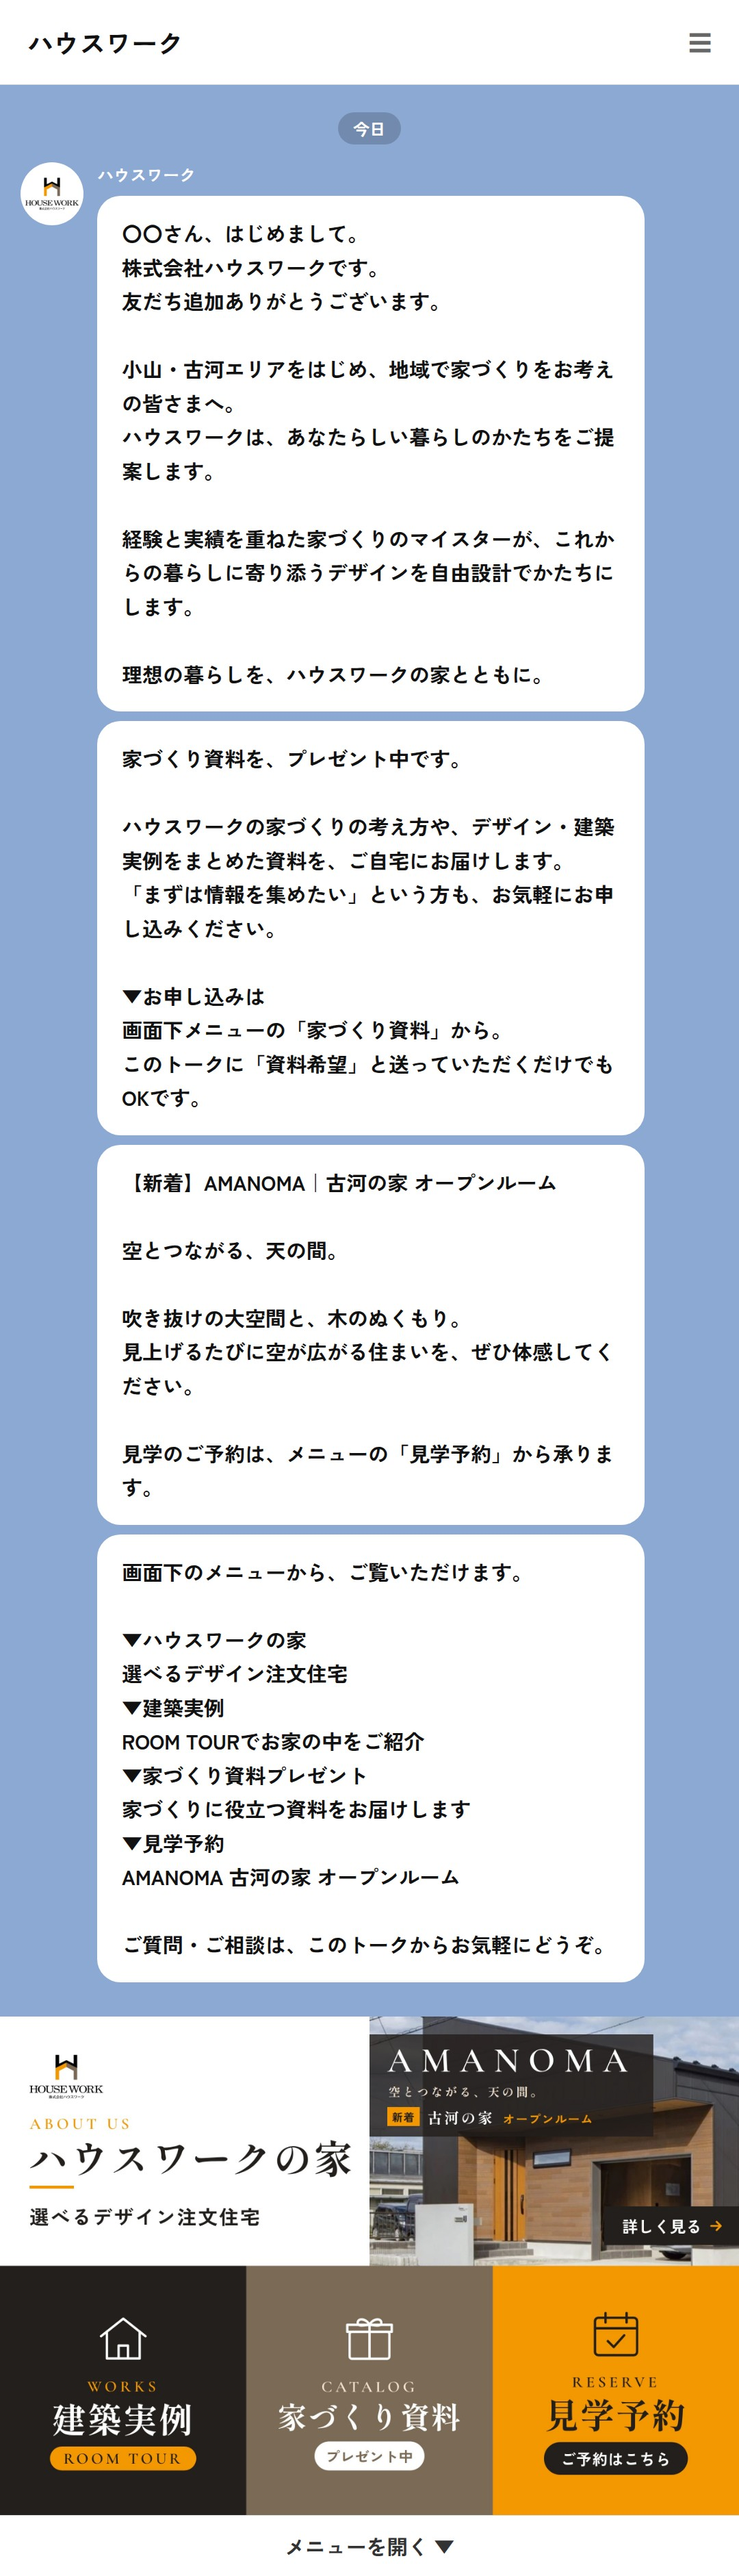
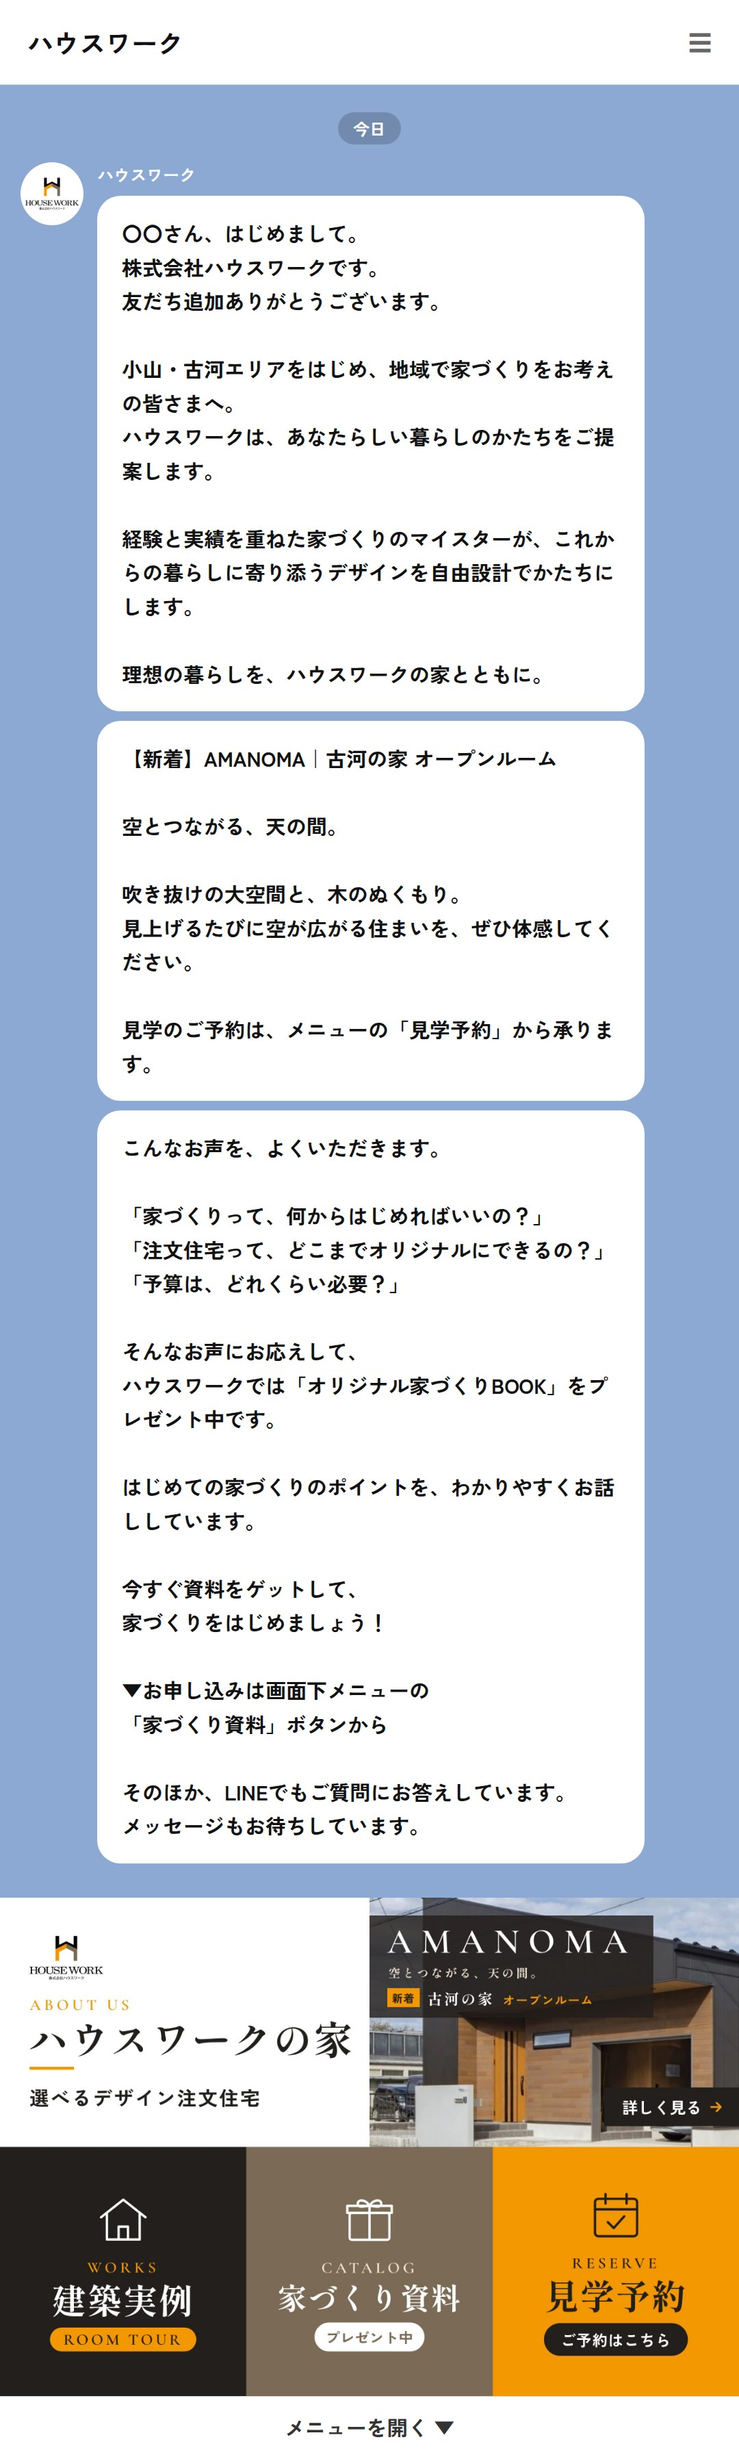
Greeting closes with家づくりBOOK catalog CTA built from customer questions
Claude-Session: https://claude.ai/code/session_012B9C5ZEN3wmcNpkXGGwKaW

Changed region(s): [[0.0, 0.0312, 1.0, 0.9986], [0.9167, 0.0, 0.9778, 0.0312], [0.2139, 0.0, 0.2444, 0.0312]]

diff --git a/line-greeting/greeting.html b/line-greeting/greeting.html
@@ -45,14 +45,6 @@
 経験と実績を重ねた家づくりのマイスターが、これからの暮らしに寄り添うデザインを<b>自由設計</b>でかたちにします。
 
 <span class="catch">理想の暮らしを、ハウスワークの家とともに。</span></div>
-        <div class="bubble">家づくり資料を、プレゼント中です。
-
-ハウスワークの家づくりの考え方や、デザイン・建築実例をまとめた資料を、ご自宅にお届けします。
-「まずは情報を集めたい」という方も、お気軽にお申し込みください。
-
-▼お申し込みは
-画面下メニューの「家づくり資料」から。
-このトークに「資料希望」と送っていただくだけでもOKです。</div>
         <div class="bubble">【新着】AMANOMA｜古河の家 オープンルーム
 
 空とつながる、天の間。
@@ -61,18 +53,25 @@
 見上げるたびに空が広がる住まいを、ぜひ体感してください。
 
 見学のご予約は、メニューの「見学予約」から承ります。</div>
-        <div class="bubble">画面下のメニューから、ご覧いただけます。
+        <div class="bubble">こんなお声を、よくいただきます。
 
-▼ハウスワークの家
-選べるデザイン注文住宅
-▼建築実例
-ROOM TOURでお家の中をご紹介
-▼家づくり資料プレゼント
-家づくりに役立つ資料をお届けします
-▼見学予約
-AMANOMA 古河の家 オープンルーム
+「家づくりって、何からはじめればいいの？」
+「注文住宅って、どこまでオリジナルにできるの？」
+「予算は、どれくらい必要？」
 
-ご質問・ご相談は、このトークからお気軽にどうぞ。</div>
+そんなお声にお応えして、
+ハウスワークでは「オリジナル家づくりBOOK」をプレゼント中です。
+
+はじめての家づくりのポイントを、わかりやすくお話ししています。
+
+今すぐ資料をゲットして、
+家づくりをはじめましょう！
+
+▼お申し込みは画面下メニューの
+「家づくり資料」ボタンから
+
+そのほか、LINEでもご質問にお答えしています。
+メッセージもお待ちしています。</div>
       </div>
     </div>
   </div>

diff --git a/line-greeting/README.md b/line-greeting/README.md
@@ -1,8 +1,8 @@
 # 株式会社ハウスワーク LINE あいさつメッセージ
 
-友だち追加の直後に自動で届くメッセージ。吹き出し4つ（ごあいさつ／家づくり資料プレゼント／AMANOMA オープンルームの案内／メニュー案内）で構成。
+友だち追加の直後に自動で届くメッセージ。吹き出し3つ（ごあいさつ／AMANOMA オープンルームの案内／オリジナル家づくりBOOKの案内＝資料請求ボタンへ誘導して締め）で構成。
 
-- `greeting.txt`：管理画面に貼り付ける文面（吹き出し1〜4）
+- `greeting.txt`：管理画面に貼り付ける文面（吹き出し1〜3）
 - `greeting_mock.jpg`：トーク画面での見え方（リッチメニュー付き）
 - `greeting.html`：モックの元データ
 
@@ -10,7 +10,7 @@
 
 1. 「ホーム」→「あいさつメッセージ」を開く
 2. 吹き出し1のテキストを貼り付け、冒頭の `{友だちの表示名}` は「友だちの表示名」ボタンで挿入し直す
-3. 「＋追加」で吹き出しを増やし、吹き出し2〜4のテキストを貼り付け
+3. 「＋追加」で吹き出しを増やし、吹き出し2・3のテキストを貼り付け
 4. プレビューで確認して「変更を保存」
 
 ※ 1つの吹き出しは500文字まで。LINEのテキストは色・太字などの装飾はできません。
